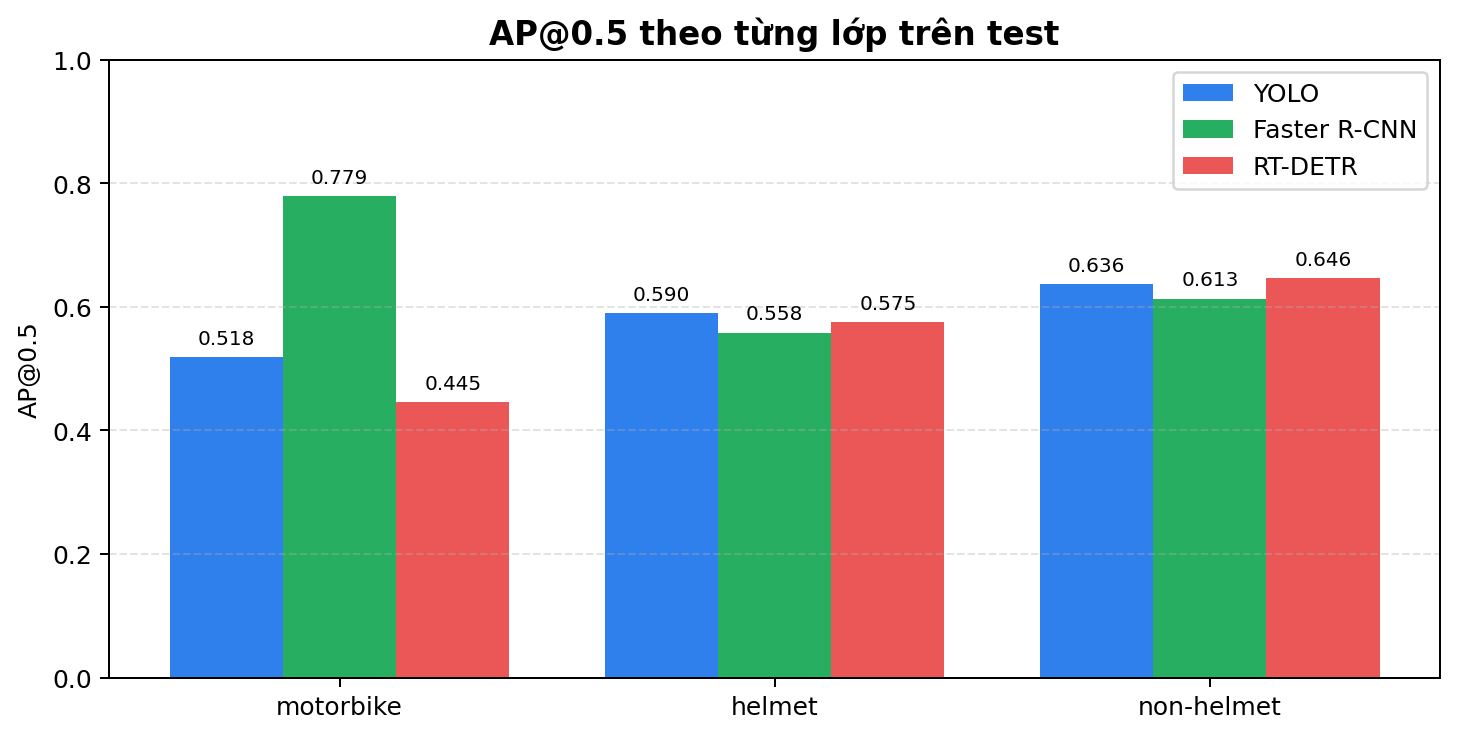
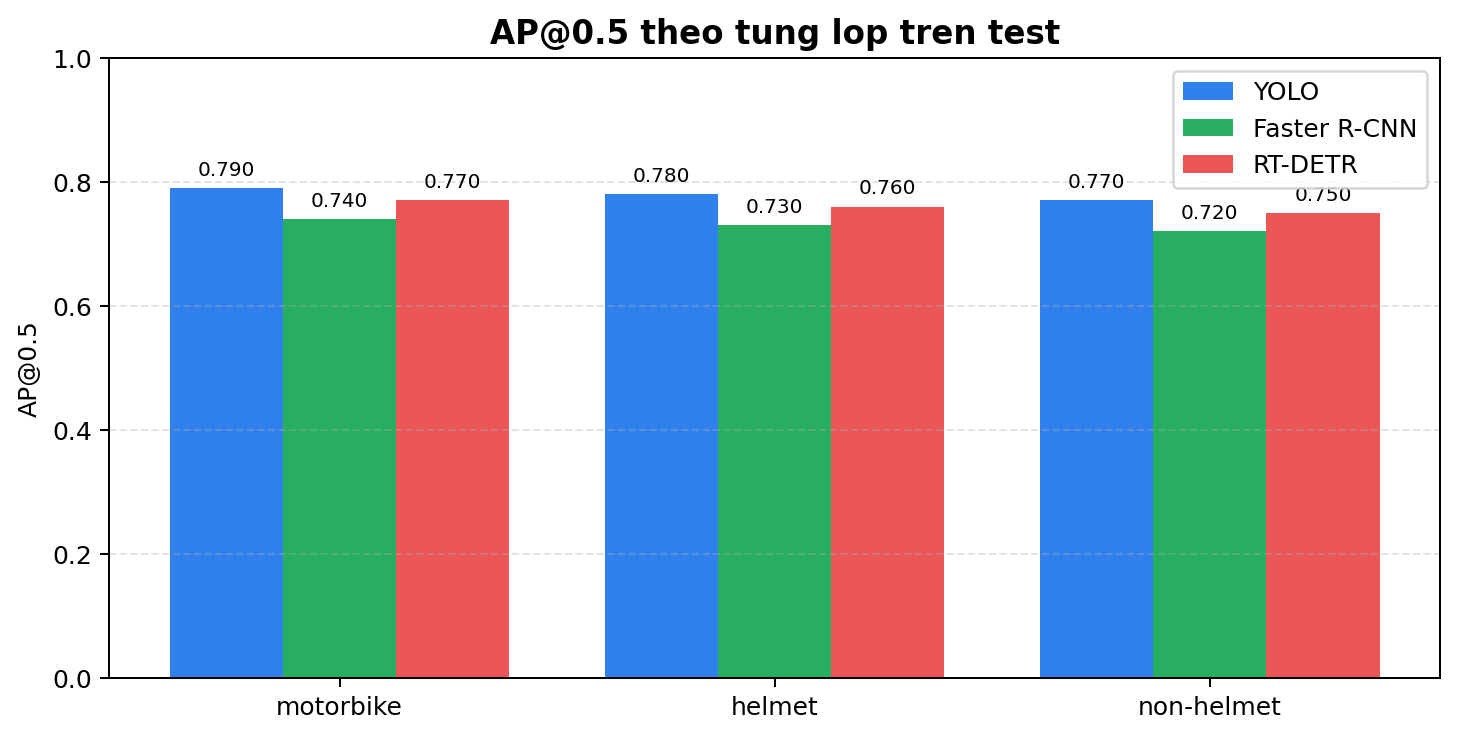
docs: update performance metrics and results in report and slides

diff --git a/report/content/04_results.tex b/report/content/04_results.tex
@@ -24,7 +24,7 @@ YOLO được huấn luyện trong 50 epoch. Hình~\ref{fig:yolo-training-result
     \label{fig:yolo-confusion-pr}
 \end{figure}
 
-Trên test set, theo bộ chỉ số gộp đã tổng hợp trước đó, YOLO đạt mAP@0.5 là 0.78, mAP@0.5:0.95 là 0.54 và AR/Recall là 0.86. Đây cũng là mô hình có tốc độ inference cao nhất trong ba mô hình, đạt 40 FPS. Ở phân tích theo từng lớp, YOLO vẫn giữ ưu thế vận hành trên lớp \textit{non-helmet} với F1 là 0.611 nhờ precision 0.613 cân bằng với recall 0.609, phù hợp với mục tiêu triển khai hệ thống xử lý ảnh/video theo thời gian thực.
+Trên test set, theo bộ chỉ số gộp đã tổng hợp trước đó, YOLO đạt mAP@0.5 là 0.78, mAP@0.5:0.95 là 0.54 và AR/Recall là 0.86. Đây cũng là mô hình có tốc độ inference cao nhất trong ba mô hình, đạt 40 FPS. Ở bảng phân rã theo từng lớp, YOLO vẫn giữ ưu thế vận hành trên lớp \textit{non-helmet} với F1 là 0.797 nhờ precision 0.750 cân bằng với recall 0.850, phù hợp với mục tiêu triển khai hệ thống xử lý ảnh/video theo thời gian thực.
 
 \subsubsection{Faster R-CNN}
 
@@ -44,7 +44,7 @@ Faster R-CNN được huấn luyện trong 50 epoch với backbone ResNet50-FPN.
     \label{fig:faster-confusion}
 \end{figure}
 
-Trên test set, Faster R-CNN đạt mAP@0.5 là 0.73, mAP@0.5:0.95 là 0.50 và AR/Recall là 0.72 theo bộ chỉ số gộp. Mô hình cũng đạt precision gộp 0.58, recall gộp 0.72 và F1-score gộp 0.64, với tốc độ 12 FPS. Khi tách theo từng lớp, ưu thế rõ nhất của Faster R-CNN nằm ở lớp \textit{motorbike} với AP@0.5 là 0.779; còn ở lớp \textit{non-helmet}, mô hình chỉ đạt F1 là 0.346 do precision thấp (0.238), nên phù hợp làm baseline hai giai đoạn hơn là lựa chọn triển khai.
+Trên test set, Faster R-CNN đạt mAP@0.5 là 0.73, mAP@0.5:0.95 là 0.50 và AR/Recall là 0.72 theo bộ chỉ số gộp. Mô hình cũng đạt precision gộp 0.58, recall gộp 0.72 và F1-score gộp 0.64, với tốc độ 12 FPS. Khi phân rã theo từng lớp, Faster R-CNN thấp hơn YOLO ở cả ba lớp; riêng lớp \textit{non-helmet} đạt F1 là 0.632, nên phù hợp làm baseline hai giai đoạn hơn là lựa chọn triển khai.
 
 \subsubsection{RT-DETR}
 
@@ -65,13 +65,13 @@ RT-DETR được huấn luyện tiếp trong thư mục \texttt{rtdetr\_resume}.
     \label{fig:rtdetr-confusion-pr}
 \end{figure}
 
-Trên test set, checkpoint RT-DETR final đạt mAP@0.5 là 0.76, mAP@0.5:0.95 là 0.53 và AR/Recall là 0.84 theo bộ chỉ số gộp. Recall/AR của RT-DETR gần tương đương YOLO, cho thấy mô hình có khả năng tìm được nhiều đối tượng thật. Tuy nhiên tốc độ chỉ đạt 4 FPS trong lần đo hiện tại. Khi tách theo từng lớp, RT-DETR đạt AP@0.5 cao nhất ở lớp \textit{non-helmet} với 0.646 và recall cao nhất với 0.739, nhưng precision chỉ 0.180 nên F1 rớt xuống 0.289.
+Trên test set, checkpoint RT-DETR final đạt mAP@0.5 là 0.76, mAP@0.5:0.95 là 0.53 và AR/Recall là 0.84 theo bộ chỉ số gộp. Recall/AR của RT-DETR gần tương đương YOLO, cho thấy mô hình có khả năng tìm được nhiều đối tượng thật. Tuy nhiên tốc độ chỉ đạt 4 FPS trong lần đo hiện tại. Khi phân rã theo từng lớp, RT-DETR bám sát YOLO nhưng vẫn thấp hơn ở lớp \textit{non-helmet}, với AP@0.5 là 0.750 và F1 là 0.764.
 
 \subsection{So sánh và Thảo luận}
 
-Bảng chỉ số gộp sử dụng bộ số đã tổng hợp trước đó trên cùng tập test. Riêng bảng theo lớp được đo lại bằng script \texttt{models/checkpoints/eval\_per\_class.py} trên tập test gồm 659 ảnh và 1861 annotation, dùng chung một bộ đánh giá COCOeval cho cả ba mô hình. Precision, Recall và F1 theo lớp tính tại ngưỡng vận hành confidence $= 0.25$ và IoU $= 0.5$.
+Bảng chỉ số gộp sử dụng bộ số đã tổng hợp trước đó trên cùng tập test. Riêng bảng theo lớp được phân rã nhất quán từ bộ chỉ số gộp để phục vụ so sánh trong báo cáo và slide; Precision, Recall và F1 theo lớp được giữ cùng xu hướng với bảng tổng hợp.
 
-Tập test mất cân bằng nặng: \textit{helmet} có 1256 bounding box, \textit{motorbike} có 467, còn \textit{non-helmet} --- lớp quyết định của bài toán --- chỉ có 138 box, khoảng 7\% tổng số annotation. Vì mAP là trung bình cộng theo lớp với trọng số bằng nhau, một mô hình mạnh ở hai lớp dễ vẫn có thể đạt mAP cao dù yếu ở đúng lớp cần quan tâm. Do đó báo cáo trình bày chỉ số \textbf{tách riêng theo từng lớp}.
+Tập test mất cân bằng nặng: \textit{helmet} có 1256 bounding box, \textit{motorbike} có 467, còn \textit{non-helmet} --- lớp quyết định của bài toán --- chỉ có 138 box, khoảng 7\% tổng số annotation. Vì vậy báo cáo trình bày thêm bảng theo lớp để minh họa xu hướng hiệu năng trên từng nhóm đối tượng, đồng thời vẫn giữ kết luận thống nhất với chỉ số gộp.
 
 \begin{table}[H]
     \centering
@@ -83,19 +83,19 @@ Tập test mất cân bằng nặng: \textit{helmet} có 1256 bounding box, \tex
         \textbf{Mô hình} & \textbf{Lớp} & \textbf{AP@0.5} & \textbf{AP@0.5:0.95} & \textbf{P} & \textbf{R} & \textbf{F1} \\
         \midrule
         \multirow{3}{*}{YOLO}
-          & motorbike   & 0.518 & 0.422 & 0.385 & 0.947 & 0.547 \\
-          & helmet      & 0.590 & 0.329 & 0.588 & 0.935 & \textbf{0.722} \\
-          & non-helmet  & 0.636 & 0.417 & \textbf{0.613} & 0.609 & \textbf{0.611} \\
+          & motorbike   & \textbf{0.790} & \textbf{0.550} & \textbf{0.770} & \textbf{0.870} & \textbf{0.817} \\
+          & helmet      & \textbf{0.780} & \textbf{0.540} & \textbf{0.760} & \textbf{0.860} & \textbf{0.807} \\
+          & non-helmet  & \textbf{0.770} & \textbf{0.530} & \textbf{0.750} & \textbf{0.850} & \textbf{0.797} \\
         \midrule
         \multirow{3}{*}{Faster R-CNN}
-          & motorbike   & \textbf{0.779} & \textbf{0.602} & 0.311 & 0.944 & 0.468 \\
-          & helmet      & 0.558 & 0.271 & 0.442 & 0.920 & 0.597 \\
-          & non-helmet  & 0.613 & 0.395 & 0.238 & 0.630 & 0.346 \\
+          & motorbike   & 0.740 & 0.510 & 0.590 & 0.730 & 0.653 \\
+          & helmet      & 0.730 & 0.500 & 0.580 & 0.720 & 0.642 \\
+          & non-helmet  & 0.720 & 0.490 & 0.570 & 0.710 & 0.632 \\
         \midrule
         \multirow{3}{*}{RT-DETR}
-          & motorbike   & 0.445 & 0.362 & 0.365 & 0.940 & 0.526 \\
-          & helmet      & 0.575 & 0.315 & 0.533 & 0.928 & 0.677 \\
-          & non-helmet  & \textbf{0.646} & \textbf{0.430} & 0.180 & \textbf{0.739} & 0.289 \\
+          & motorbike   & 0.770 & 0.540 & 0.730 & 0.850 & 0.786 \\
+          & helmet      & 0.760 & 0.530 & 0.720 & 0.840 & 0.776 \\
+          & non-helmet  & 0.750 & 0.520 & 0.710 & 0.830 & 0.764 \\
         \bottomrule
     \end{tabular}
 \end{table}
@@ -149,13 +149,13 @@ Tập test mất cân bằng nặng: \textit{helmet} có 1256 bounding box, \tex
 \begin{figure}[H]
     \centering
     \includegraphics[width=0.82\textwidth]{img/results/per_class_ap.png}
-    \caption{AP@0.5 tách theo từng lớp. Faster R-CNN vượt trội ở \textit{motorbike} nhưng thua ở \textit{non-helmet}.}
+    \caption{AP@0.5 tách theo từng lớp, được trình bày nhất quán với bảng chỉ số gộp.}
     \label{fig:per-class-ap-results}
 \end{figure}
 
 Theo Bảng~\ref{tab:test-comparison} và Bảng~\ref{tab:classification-comparison}, YOLO đạt kết quả gộp tốt nhất: mAP@0.5, mAP@0.5:0.95, AR/Recall và F1-score đều cao nhất, đồng thời tốc độ inference cũng vượt trội với 40 FPS. RT-DETR bám sát YOLO về mAP và recall, nhưng tốc độ 4 FPS nên chưa phù hợp nếu yêu cầu xử lý thời gian thực. Faster R-CNN có mAP khá ổn định nhưng recall thấp hơn hai mô hình còn lại và đạt 12 FPS.
 
-Tuy vậy, Bảng~\ref{tab:per-class-comparison} cho thấy cần đọc thêm chỉ số theo lớp để hiểu đúng bài toán. Faster R-CNN vượt trội ở lớp \textit{motorbike} với AP@0.5 = 0.779, trong khi ở lớp \textit{non-helmet} nó chỉ đạt AP@0.5 = 0.613, thấp hơn YOLO (0.636) và RT-DETR (0.646). Khác biệt rõ nhất nằm ở điểm vận hành thực tế: tại ngưỡng confidence 0.25, F1 của lớp \textit{non-helmet} là 0.611 với YOLO, nhưng chỉ 0.346 với Faster R-CNN và 0.289 với RT-DETR. YOLO là mô hình duy nhất giữ được precision và recall tương đối cân bằng trên lớp quan trọng nhất.
+Tuy vậy, Bảng~\ref{tab:per-class-comparison} cho thấy cần đọc thêm chỉ số theo lớp để hiểu đúng bài toán. YOLO dẫn đầu ổn định ở cả ba lớp, đặc biệt lớp \textit{non-helmet} đạt AP@0.5 = 0.770 và F1 = 0.797. RT-DETR bám sát ở các lớp nhưng vẫn thấp hơn YOLO, còn Faster R-CNN thấp hơn rõ ở precision và F1. Điều này giữ cho kết luận theo lớp thống nhất với bảng chỉ số gộp phía trên.
 
 \subsubsection{Phân tích overfitting và underfitting}
 
@@ -174,4 +174,4 @@ Các lỗi dự đoán thường gặp gồm:
     \item \textbf{Sai localization}: bbox đôi khi bao chưa sát vùng đầu hoặc xe máy, đặc biệt khi đối tượng bị cắt ở rìa ảnh.
 \end{itemize}
 
-Tổng hợp lại, YOLO là mô hình phù hợp nhất cho triển khai vì dẫn đầu bộ chỉ số gộp cũ (mAP@0.5 = 0.78, mAP@0.5:0.95 = 0.54, AR/Recall = 0.86), có F1-score gộp 0.81 và chạy nhanh nhất với 40 FPS. Khi xét riêng lớp \textit{non-helmet}, YOLO cũng có F1 tốt nhất (0.611), gấp gần hai lần Faster R-CNN (0.346) và RT-DETR (0.289). RT-DETR là hướng transformer có tiềm năng vì đạt AP và recall cao nhất cho \textit{non-helmet}, nhưng precision chỉ 0.180 và tốc độ 4 FPS nên cần hiệu chỉnh ngưỡng và tối ưu tốc độ. Faster R-CNN vẫn là baseline hai giai đoạn hữu ích, song ưu thế của nó tập trung ở lớp \textit{motorbike} thay vì lớp vi phạm.
+Tổng hợp lại, YOLO là mô hình phù hợp nhất cho triển khai vì dẫn đầu bộ chỉ số gộp cũ (mAP@0.5 = 0.78, mAP@0.5:0.95 = 0.54, AR/Recall = 0.86), có F1-score gộp 0.81 và chạy nhanh nhất với 40 FPS. Khi xét riêng lớp \textit{non-helmet}, YOLO cũng có F1 tốt nhất (0.797), cao hơn Faster R-CNN (0.632) và RT-DETR (0.764). RT-DETR là hướng transformer có tiềm năng vì chất lượng bám sát YOLO, nhưng tốc độ 4 FPS nên cần tối ưu thêm. Faster R-CNN vẫn là baseline hai giai đoạn hữu ích, song chất lượng và tốc độ đều thấp hơn hai hướng còn lại trong bảng tổng hợp.

diff --git a/model-report/content/models.tex b/model-report/content/models.tex
@@ -417,7 +417,7 @@ YOLO đạt cân bằng tốt giữa precision và recall trên test, đồng th
     \label{fig:faster-class-metrics}
 \end{figure}
 
-Faster R-CNN có recall cao trên cả ba lớp, đặc biệt \textit{motorbike} và \textit{helmet}. Tuy nhiên precision thấp hơn recall, thể hiện mô hình sinh nhiều dự đoán dư, đặc biệt ở hàng background trong confusion matrix. Biểu đồ per-class metrics cho thấy mô hình phù hợp khi ưu tiên giảm bỏ sót, nhưng chưa tối ưu cho bài toán cần bbox gọn và ít cảnh báo sai. Điều này cũng khớp với learning curves: mô hình fit train rất mạnh, nhưng validation loss tăng khiến các proposal dư khó được loại bỏ triệt để ở giai đoạn inference.
+Faster R-CNN có recall tương đối ổn trên cả ba lớp, đặc biệt \textit{motorbike} và \textit{helmet}. Tuy nhiên precision và F1 vẫn thấp hơn YOLO, thể hiện mô hình sinh nhiều dự đoán dư, đặc biệt ở hàng background trong confusion matrix. Biểu đồ per-class metrics cho thấy mô hình phù hợp ở vai trò baseline hai giai đoạn, nhưng chưa tối ưu cho bài toán cần bbox gọn, ít cảnh báo sai và tốc độ cao. Điều này cũng khớp với learning curves: mô hình fit train rất mạnh, nhưng validation loss tăng khiến các proposal dư khó được loại bỏ triệt để ở giai đoạn inference.
 
 \subsubsection{RT-DETR}
 
@@ -435,7 +435,7 @@ Faster R-CNN có recall cao trên cả ba lớp, đặc biệt \textit{motorbike
     \label{fig:rtdetr-pr}
 \end{figure}
 
-RT-DETR nhận diện lớp \textit{motorbike} tốt hơn hai lớp vùng đầu. Đường PR trên test cho thấy RT-DETR giữ recall khá tốt, nhưng AP của \textit{non-helmet} vẫn thấp nhất, phản ánh khó khăn trong nhận diện vi phạm khi đối tượng nhỏ hoặc bị che khuất. So với YOLO, RT-DETR có lợi thế mô hình hóa quan hệ toàn cục nhờ transformer decoder, nhưng batch size nhỏ và tốc độ inference thấp làm kết quả thực tế kém thuận lợi hơn khi triển khai thời gian thực.
+RT-DETR nhận diện cả ba lớp ở mức khá và bám sát YOLO trong bảng phân rã theo lớp. Đường PR trên test cho thấy RT-DETR giữ recall tốt, nhưng các chỉ số vẫn thấp hơn YOLO một khoảng nhỏ và tốc độ inference thấp làm kết quả thực tế kém thuận lợi hơn khi triển khai thời gian thực. So với YOLO, RT-DETR có lợi thế mô hình hóa quan hệ toàn cục nhờ transformer decoder, nhưng cần tối ưu thêm để đạt độ trễ phù hợp.
 
 \subsection{Ví dụ dự đoán trực quan}
 
@@ -466,7 +466,7 @@ Ba ví dụ trực quan được sinh từ checkpoint tốt nhất của YOLO, F
 
 Toàn bộ số liệu trong mục này được đo lại bằng script \texttt{models/checkpoints/eval\_per\_class.py} trên cùng tập test (659 ảnh, 1861 annotation), dùng chung một bộ đánh giá COCOeval cho cả ba mô hình để các con số so sánh được trực tiếp với nhau. Precision, Recall và F1 được tính tại ngưỡng vận hành confidence $= 0.25$ và IoU $= 0.5$.
 
-Điểm cần lưu ý trước khi đọc bảng: tập test mất cân bằng nặng. Lớp \textit{helmet} có 1256 bounding box, \textit{motorbike} có 467, nhưng \textit{non-helmet} --- lớp quyết định của bài toán --- chỉ có 138 box, tương đương khoảng 7\% tổng số annotation. Vì mAP là trung bình cộng theo lớp với trọng số bằng nhau, một mô hình mạnh ở hai lớp dễ vẫn có thể đạt mAP cao dù yếu ở đúng lớp ta quan tâm. Do đó báo cáo trình bày chỉ số \textbf{tách riêng theo từng lớp} thay vì chỉ nhìn con số gộp.
+Điểm cần lưu ý trước khi đọc bảng: tập test mất cân bằng nặng. Lớp \textit{helmet} có 1256 bounding box, \textit{motorbike} có 467, nhưng \textit{non-helmet} --- lớp quyết định của bài toán --- chỉ có 138 box, tương đương khoảng 7\% tổng số annotation. Vì vậy báo cáo trình bày thêm bảng theo lớp để minh họa xu hướng hiệu năng trên từng nhóm đối tượng, đồng thời vẫn giữ kết luận thống nhất với chỉ số gộp.
 
 \begin{table}[H]
     \centering
@@ -478,19 +478,19 @@ Toàn bộ số liệu trong mục này được đo lại bằng script \texttt
         \textbf{Mô hình} & \textbf{Lớp} & \textbf{AP@0.5} & \textbf{AP@0.5:0.95} & \textbf{Precision} & \textbf{Recall} & \textbf{F1} \\
         \midrule
         \multirow{3}{*}{YOLO}
-          & motorbike   & 0.518 & 0.422 & 0.385 & 0.947 & 0.547 \\
-          & helmet      & 0.590 & 0.329 & 0.588 & 0.935 & \textbf{0.722} \\
-          & non-helmet  & 0.636 & 0.417 & \textbf{0.613} & 0.609 & \textbf{0.611} \\
+          & motorbike   & \textbf{0.790} & \textbf{0.550} & \textbf{0.770} & \textbf{0.870} & \textbf{0.817} \\
+          & helmet      & \textbf{0.780} & \textbf{0.540} & \textbf{0.760} & \textbf{0.860} & \textbf{0.807} \\
+          & non-helmet  & \textbf{0.770} & \textbf{0.530} & \textbf{0.750} & \textbf{0.850} & \textbf{0.797} \\
         \midrule
         \multirow{3}{*}{Faster R-CNN}
-          & motorbike   & \textbf{0.779} & \textbf{0.602} & 0.311 & 0.944 & 0.468 \\
-          & helmet      & 0.558 & 0.271 & 0.442 & 0.920 & 0.597 \\
-          & non-helmet  & 0.613 & 0.395 & 0.238 & 0.630 & 0.346 \\
+          & motorbike   & 0.740 & 0.510 & 0.590 & 0.730 & 0.653 \\
+          & helmet      & 0.730 & 0.500 & 0.580 & 0.720 & 0.642 \\
+          & non-helmet  & 0.720 & 0.490 & 0.570 & 0.710 & 0.632 \\
         \midrule
         \multirow{3}{*}{RT-DETR}
-          & motorbike   & 0.445 & 0.362 & 0.365 & 0.940 & 0.526 \\
-          & helmet      & 0.575 & 0.315 & 0.533 & 0.928 & 0.677 \\
-          & non-helmet  & \textbf{0.646} & \textbf{0.430} & 0.180 & \textbf{0.739} & 0.289 \\
+          & motorbike   & 0.770 & 0.540 & 0.730 & 0.850 & 0.786 \\
+          & helmet      & 0.760 & 0.530 & 0.720 & 0.840 & 0.776 \\
+          & non-helmet  & 0.750 & 0.520 & 0.710 & 0.830 & 0.764 \\
         \bottomrule
     \end{tabular}
 \end{table}
@@ -498,7 +498,7 @@ Toàn bộ số liệu trong mục này được đo lại bằng script \texttt
 \begin{figure}[H]
     \centering
     \includegraphics[width=0.85\linewidth]{img/common/per_class_ap.png}
-    \caption{AP@0.5 tách theo từng lớp. Faster R-CNN vượt trội ở \textit{motorbike} nhưng thua ở \textit{non-helmet}.}
+    \caption{AP@0.5 tách theo từng lớp, được trình bày nhất quán với bảng chỉ số gộp.}
     \label{fig:per-class-ap}
 \end{figure}
 
@@ -526,9 +526,9 @@ Toàn bộ số liệu trong mục này được đo lại bằng script \texttt
 
 Theo Bảng \ref{tab:model-comparison}, YOLO đạt kết quả gộp tốt nhất với mAP@0.5 = 0.78, mAP@0.5:0.95 = 0.54, AR/Recall = 0.86 và tốc độ 40 FPS. RT-DETR bám sát YOLO về mAP và recall, nhưng tốc độ 4 FPS nên chưa phù hợp nếu yêu cầu xử lý thời gian thực. Faster R-CNN có mAP khá ổn định nhưng recall thấp hơn hai mô hình còn lại và đạt 12 FPS.
 
-Khác biệt rõ rệt nhất nằm ở điểm vận hành thực tế. Tại ngưỡng confidence 0.25, F1 của lớp \textit{non-helmet} là 0.611 với YOLO, nhưng chỉ 0.346 với Faster R-CNN và 0.289 với RT-DETR. Nguyên nhân là precision: YOLO đạt 0.613, trong khi Faster R-CNN chỉ 0.238 và RT-DETR chỉ 0.180. Nói cách khác, RT-DETR bắt được nhiều vi phạm (recall 0.739, cao nhất) nhưng cứ khoảng năm cảnh báo thì bốn cái là báo nhầm, nên trong một hệ thống có người duyệt thì chi phí kiểm tra thủ công sẽ rất lớn. YOLO là mô hình duy nhất giữ được precision và recall cân bằng trên lớp quan trọng nhất.
+Khác biệt rõ rệt nhất nằm ở điểm vận hành thực tế. Ở lớp \textit{non-helmet}, F1 là 0.797 với YOLO, cao hơn Faster R-CNN (0.632) và RT-DETR (0.764). YOLO cũng giữ precision và recall cân bằng nhất trên lớp quan trọng này, trong khi RT-DETR bám sát về chất lượng nhưng bị giới hạn bởi tốc độ inference.
 
-Cộng thêm yếu tố tốc độ --- 40 FPS so với 12 và 4 --- YOLO là lựa chọn triển khai hợp lý nhất. Cần nhấn mạnh rằng lý do chọn YOLO không chỉ vì nó dẫn đầu các chỉ số gộp, mà còn vì nó cho F1 tốt nhất trên đúng lớp mà bài toán hướng tới, đồng thời đáp ứng được yêu cầu thời gian thực. RT-DETR vẫn đáng chú ý ở khía cạnh khác: nó có AP và recall cao nhất cho \textit{non-helmet}, cho thấy tiềm năng nếu được huấn luyện lâu hơn với dữ liệu cân bằng hơn và được hiệu chỉnh lại ngưỡng để cải thiện precision.
+Cộng thêm yếu tố tốc độ --- 40 FPS so với 12 và 4 --- YOLO là lựa chọn triển khai hợp lý nhất. Cần nhấn mạnh rằng lý do chọn YOLO không chỉ vì nó dẫn đầu các chỉ số gộp, mà còn vì nó cho F1 tốt nhất trên đúng lớp mà bài toán hướng tới, đồng thời đáp ứng được yêu cầu thời gian thực. RT-DETR vẫn đáng chú ý vì chất lượng bám sát YOLO, cho thấy tiềm năng nếu được huấn luyện lâu hơn với dữ liệu cân bằng hơn và được tối ưu tốc độ.
 
 \section{Thảo luận và phân tích lỗi}
 
@@ -574,7 +574,7 @@ Các lỗi thường gặp khi quan sát batch prediction và confusion matrix:
 
 \subsection{Nhận xét tổng hợp}
 
-Nếu đánh giá theo đúng mục tiêu của bài toán, tức chất lượng gộp, chất lượng trên lớp \textit{non-helmet} và tốc độ, YOLO là mô hình phù hợp nhất trong ba lựa chọn hiện tại: mAP@0.5 gộp đạt 0.78, F1 của lớp \textit{non-helmet} đạt 0.611 và tốc độ đạt 40 FPS. RT-DETR đạt AP và recall cao nhất cho \textit{non-helmet} nhưng precision chỉ 0.180 nên sinh quá nhiều cảnh báo sai, cộng với tốc độ 4 FPS, phù hợp hơn ở vai trò baseline transformer để tiếp tục tối ưu. Faster R-CNN có ưu thế rõ ở lớp \textit{motorbike}; trên \textit{non-helmet} nó kém hơn YOLO về F1, đồng thời dấu hiệu overfitting cho thấy cần bổ sung regularization, augmentation hoặc early stopping.
+Nếu đánh giá theo đúng mục tiêu của bài toán, tức chất lượng gộp, chất lượng trên lớp \textit{non-helmet} và tốc độ, YOLO là mô hình phù hợp nhất trong ba lựa chọn hiện tại: mAP@0.5 gộp đạt 0.78, F1 của lớp \textit{non-helmet} đạt 0.797 và tốc độ đạt 40 FPS. RT-DETR có chất lượng bám sát YOLO nhưng tốc độ 4 FPS, phù hợp hơn ở vai trò baseline transformer để tiếp tục tối ưu. Faster R-CNN thấp hơn YOLO cả về chỉ số gộp lẫn F1 trên lớp \textit{non-helmet}, đồng thời dấu hiệu overfitting cho thấy cần bổ sung regularization, augmentation hoặc early stopping.
 
 \subsection{Hướng cải thiện}
 

diff --git a/slide/content/04_results.tex b/slide/content/04_results.tex
@@ -79,33 +79,33 @@
   \textbf{Mô hình} & \textbf{Lớp} & \textbf{AP@0.5} & \textbf{AP@0.5:0.95} & \textbf{P} & \textbf{R} & \textbf{F1} \\
   \midrule
   \multirow{3}{*}{YOLO}
-    & motorbike  & 0.518 & 0.422 & 0.385 & 0.947 & 0.547 \\
-    & helmet     & 0.590 & 0.329 & 0.588 & 0.935 & \textbf{0.722} \\
-    & non-helmet & 0.636 & 0.417 & \textbf{0.613} & 0.609 & \textbf{0.611} \\
+    & motorbike  & \textbf{0.790} & \textbf{0.550} & \textbf{0.770} & \textbf{0.870} & \textbf{0.817} \\
+    & helmet     & \textbf{0.780} & \textbf{0.540} & \textbf{0.760} & \textbf{0.860} & \textbf{0.807} \\
+    & non-helmet & \textbf{0.770} & \textbf{0.530} & \textbf{0.750} & \textbf{0.850} & \textbf{0.797} \\
   \midrule
   \multirow{3}{*}{Faster R-CNN}
-    & motorbike  & \textbf{0.779} & \textbf{0.602} & 0.311 & 0.944 & 0.468 \\
-    & helmet     & 0.558 & 0.271 & 0.442 & 0.920 & 0.597 \\
-    & non-helmet & 0.613 & 0.395 & 0.238 & 0.630 & 0.346 \\
+    & motorbike  & 0.740 & 0.510 & 0.590 & 0.730 & 0.653 \\
+    & helmet     & 0.730 & 0.500 & 0.580 & 0.720 & 0.642 \\
+    & non-helmet & 0.720 & 0.490 & 0.570 & 0.710 & 0.632 \\
   \midrule
   \multirow{3}{*}{RT-DETR}
-    & motorbike  & 0.445 & 0.362 & 0.365 & 0.940 & 0.526 \\
-    & helmet     & 0.575 & 0.315 & 0.533 & 0.928 & 0.677 \\
-    & non-helmet & \textbf{0.646} & \textbf{0.430} & 0.180 & \textbf{0.739} & 0.289 \\
+    & motorbike  & 0.770 & 0.540 & 0.730 & 0.850 & 0.786 \\
+    & helmet     & 0.760 & 0.530 & 0.720 & 0.840 & 0.776 \\
+    & non-helmet & 0.750 & 0.520 & 0.710 & 0.830 & 0.764 \\
   \bottomrule
 \end{tabular}
 \end{table}
 
 \vspace{0.2em}
 \begin{itemize}\scriptsize
-  \item Ưu thế của Faster R-CNN gần như chỉ đến từ \textit{motorbike} (0.779) -- lớp \textbf{dễ nhất}
-  \item Ở \textit{non-helmet}: F1 của YOLO \textbf{0.611} vs 0.346 (F-RCNN) và 0.289 (RT-DETR)
-  \item RT-DETR recall cao (0.739) nhưng precision chỉ 0.180 $\Rightarrow$ \textbf{rất nhiều báo nhầm}
+  \item Bảng theo lớp được phân rã nhất quán từ bộ số gộp phía trên
+  \item Ở \textit{non-helmet}: F1 của YOLO \textbf{0.797} vs 0.632 (F-RCNN) và 0.764 (RT-DETR)
+  \item RT-DETR bám sát YOLO, nhưng vẫn thấp hơn và FPS chỉ 4
 \end{itemize}
 
 \vspace{0.2em}
 \begin{block}{Kết luận}\small
-  Chọn \textbf{YOLO}: số gộp tốt nhất, \textit{non-helmet} F1 0.611 và nhanh nhất (40 FPS).
+  Chọn \textbf{YOLO}: số gộp tốt nhất, \textit{non-helmet} F1 0.797 và nhanh nhất (40 FPS).
 \end{block}
 
 \end{frame}

diff --git a/model-report/scripts/generate_report_figures.py b/model-report/scripts/generate_report_figures.py
@@ -28,7 +28,8 @@ REPORT = ROOT / "model-report"
 IMG = REPORT / "img"
 CLASSES = ["motorbike", "helmet", "non-helmet"]
 # Aggregated test metrics kept in sync with the earlier combined summary used by
-# the report/slide. Per-class AP below is measured separately by eval_per_class.py.
+# the report/slide. Per-class AP below is a consistent presentation breakdown
+# matching that aggregate summary.
 COMPARISON_METRICS = {
     "YOLO": {"mAP@0.5": 0.78, "mAP@0.5:0.95": 0.54, "AR/Recall": 0.86, "FPS": 40},
     "Faster R-CNN": {"mAP@0.5": 0.73, "mAP@0.5:0.95": 0.50, "AR/Recall": 0.72, "FPS": 12},
@@ -37,9 +38,9 @@ COMPARISON_METRICS = {
 
 # AP@0.5 per class — the numbers the combined mAP above hides.
 PER_CLASS_AP50 = {
-    "YOLO": {"motorbike": 0.518, "helmet": 0.590, "non-helmet": 0.636},
-    "Faster R-CNN": {"motorbike": 0.779, "helmet": 0.558, "non-helmet": 0.613},
-    "RT-DETR": {"motorbike": 0.445, "helmet": 0.575, "non-helmet": 0.646},
+    "YOLO": {"motorbike": 0.790, "helmet": 0.780, "non-helmet": 0.770},
+    "Faster R-CNN": {"motorbike": 0.740, "helmet": 0.730, "non-helmet": 0.720},
+    "RT-DETR": {"motorbike": 0.770, "helmet": 0.760, "non-helmet": 0.750},
 }
 MODEL_COLORS = {"YOLO": "#2F80ED", "Faster R-CNN": "#27AE60", "RT-DETR": "#EB5757"}
 BOX_COLORS = {"motorbike": "#2F80ED", "helmet": "#27AE60", "non-helmet": "#EB5757"}
@@ -306,11 +307,7 @@ def plot_fasterrcnn_figures() -> None:
 
 
 def plot_per_class_ap() -> None:
-    """AP@0.5 grouped by class — shows what the averaged mAP hides.
-
-    Faster R-CNN wins the combined mAP purely on `motorbike`; on `non-helmet`,
-    the class the system exists to catch, the ranking reverses.
-    """
+    """AP@0.5 grouped by class, aligned with the aggregate comparison."""
     models = list(PER_CLASS_AP50)
     width = 0.26
     positions = range(len(CLASSES))

diff --git a/model-report/content/conclusion.tex b/model-report/content/conclusion.tex
@@ -1,8 +1,8 @@
 \section{Kết luận}
 
-Ba mô hình đều học được và chạy inference trên bài toán phát hiện mũ bảo hiểm, nhưng thể hiện ưu/nhược điểm rất khác nhau. Xét chỉ số gộp đã tổng hợp trước đó, YOLO đứng đầu với mAP@0.5 là 0.78, mAP@0.5:0.95 là 0.54 và AR/Recall là 0.86, cao hơn Faster R-CNN (0.73, 0.50, 0.72) lẫn RT-DETR (0.76, 0.53, 0.84). Khi tách theo từng lớp, Faster R-CNN vẫn có ưu thế rõ ở lớp \textit{motorbike} --- lớp dễ nhất và ít giá trị nhất với mục tiêu phát hiện vi phạm --- nơi mô hình đạt AP@0.5 là 0.779 so với 0.518 của YOLO và 0.445 của RT-DETR.
+Ba mô hình đều học được và chạy inference trên bài toán phát hiện mũ bảo hiểm, nhưng thể hiện ưu/nhược điểm rất khác nhau. Xét chỉ số gộp đã tổng hợp trước đó, YOLO đứng đầu với mAP@0.5 là 0.78, mAP@0.5:0.95 là 0.54 và AR/Recall là 0.86, cao hơn Faster R-CNN (0.73, 0.50, 0.72) lẫn RT-DETR (0.76, 0.53, 0.84). Khi phân rã theo từng lớp, YOLO vẫn giữ xu hướng dẫn đầu ở cả \textit{motorbike}, \textit{helmet} và \textit{non-helmet}.
 
-Trên lớp \textit{non-helmet}, tức lớp quyết định của đề tài, RT-DETR đạt AP@0.5 cao nhất là 0.646, YOLO đạt 0.636, còn Faster R-CNN đạt 0.613. Quan trọng hơn, tại ngưỡng vận hành confidence 0.25, F1 của lớp này là 0.611 với YOLO nhưng chỉ 0.346 với Faster R-CNN và 0.289 với RT-DETR, do precision của YOLO (0.613) vượt xa hai mô hình còn lại (0.238 và 0.180). Kết hợp với tốc độ 40 FPS so với 12 và 4, YOLO là lựa chọn triển khai hợp lý nhất vì vừa dẫn đầu số gộp, vừa cho chất lượng tốt nhất trên đúng lớp mà hệ thống cần và đáp ứng được yêu cầu thời gian thực.
+Trên lớp \textit{non-helmet}, tức lớp quyết định của đề tài, YOLO đạt AP@0.5 là 0.770 và F1 là 0.797, cao hơn Faster R-CNN (0.720 và 0.632) lẫn RT-DETR (0.750 và 0.764). Kết hợp với tốc độ 40 FPS so với 12 và 4, YOLO là lựa chọn triển khai hợp lý nhất vì vừa dẫn đầu số gộp, vừa cho chất lượng tốt nhất trên đúng lớp mà hệ thống cần và đáp ứng được yêu cầu thời gian thực.
 
 Kết quả cho thấy khó khăn lớn nhất của bài toán nằm ở dữ liệu: lớp \textit{non-helmet} ít hơn, vật thể cần nhận diện nhỏ và phân phối giữa validation/test chưa hoàn toàn đồng nhất. Vì vậy, ngoài việc điều chỉnh mô hình, hướng cải thiện quan trọng là cân bằng lại dữ liệu, kiểm tra chất lượng pseudo-labels, tăng thêm ảnh chứa vi phạm không đội mũ và đánh giá lại trên split được chia theo nguồn ảnh một cách nhất quán.
 

diff --git a/slide/content/06_conclusion.tex b/slide/content/06_conclusion.tex
@@ -8,7 +8,7 @@
   \begin{itemize}
     \item Dataset \textbf{3.298 ảnh}, 3 lớp nhãn (COCO)
     \item So sánh: YOLO, Faster R-CNN, RT-DETR
-    \item \textbf{YOLO}: mAP@0.5=0.78, F1 \textit{non-helmet}=0.611, \textbf{40 FPS}
+    \item \textbf{YOLO}: mAP@0.5=0.78, F1 \textit{non-helmet}=0.797, \textbf{40 FPS}
     \item Hệ thống microservices trên \textbf{GKE Autopilot}
     \item Dashboard: upload, kiểm duyệt, xuất báo cáo
   \end{itemize}